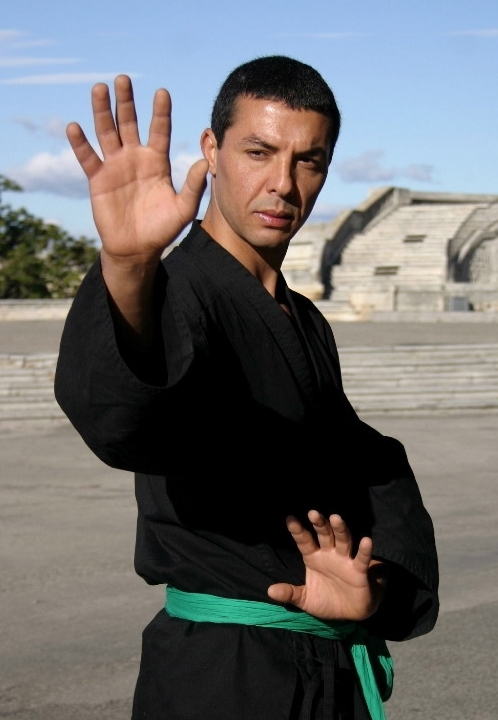
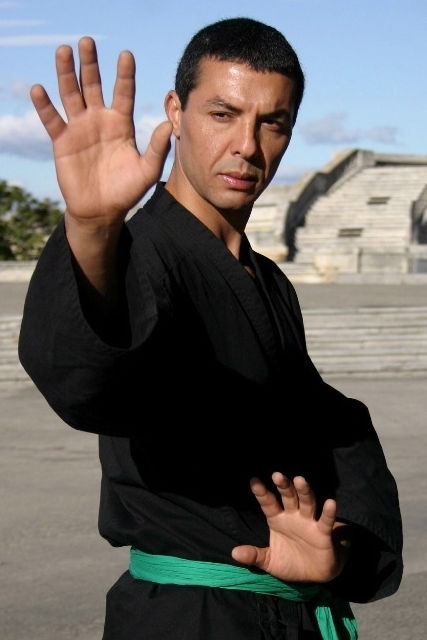
Improved pictures

diff --git a/content/notre-ecole/notre-ecole.md b/content/notre-ecole/notre-ecole.md
@@ -27,7 +27,7 @@ Depuis septembre 2008, l’école Chấn Điện Võ Đường est affiliée à 
 
 ## Le fondateur {#le-fondateur}
 
-![Adda Keliche en posture de garde](photos_adda_barnus_viet-b3548.jpg "Adda Keliche")
+![Adda Keliche en posture de garde](adda.jpg "Adda Keliche")
 {.float-left}
 
 **Adda Keliche** est expert en arts martiaux (ceinture noire 5<sup>e</sup> dang) et [formateur en gestion de stress et agression](/pro).
